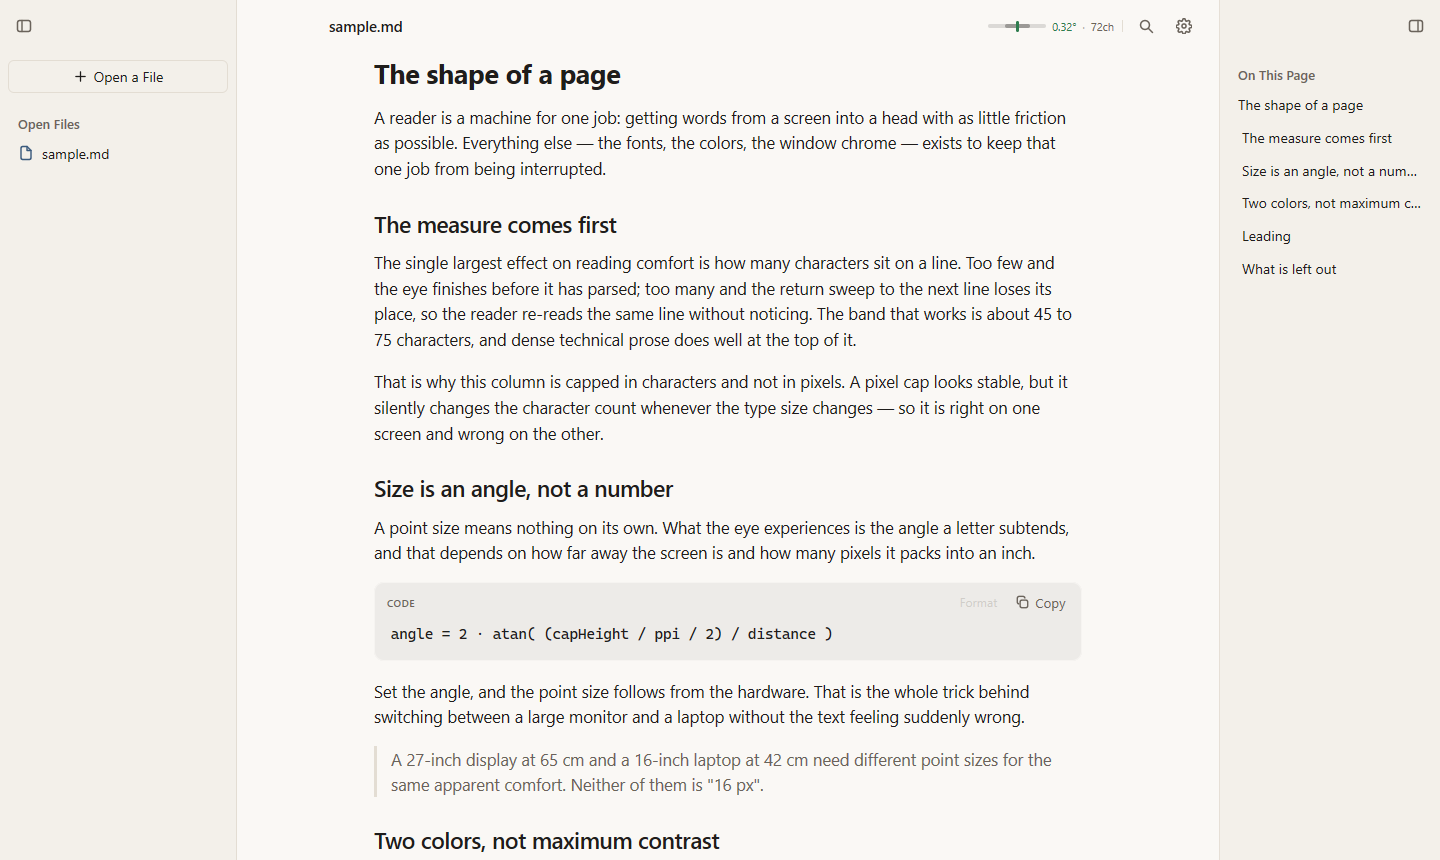
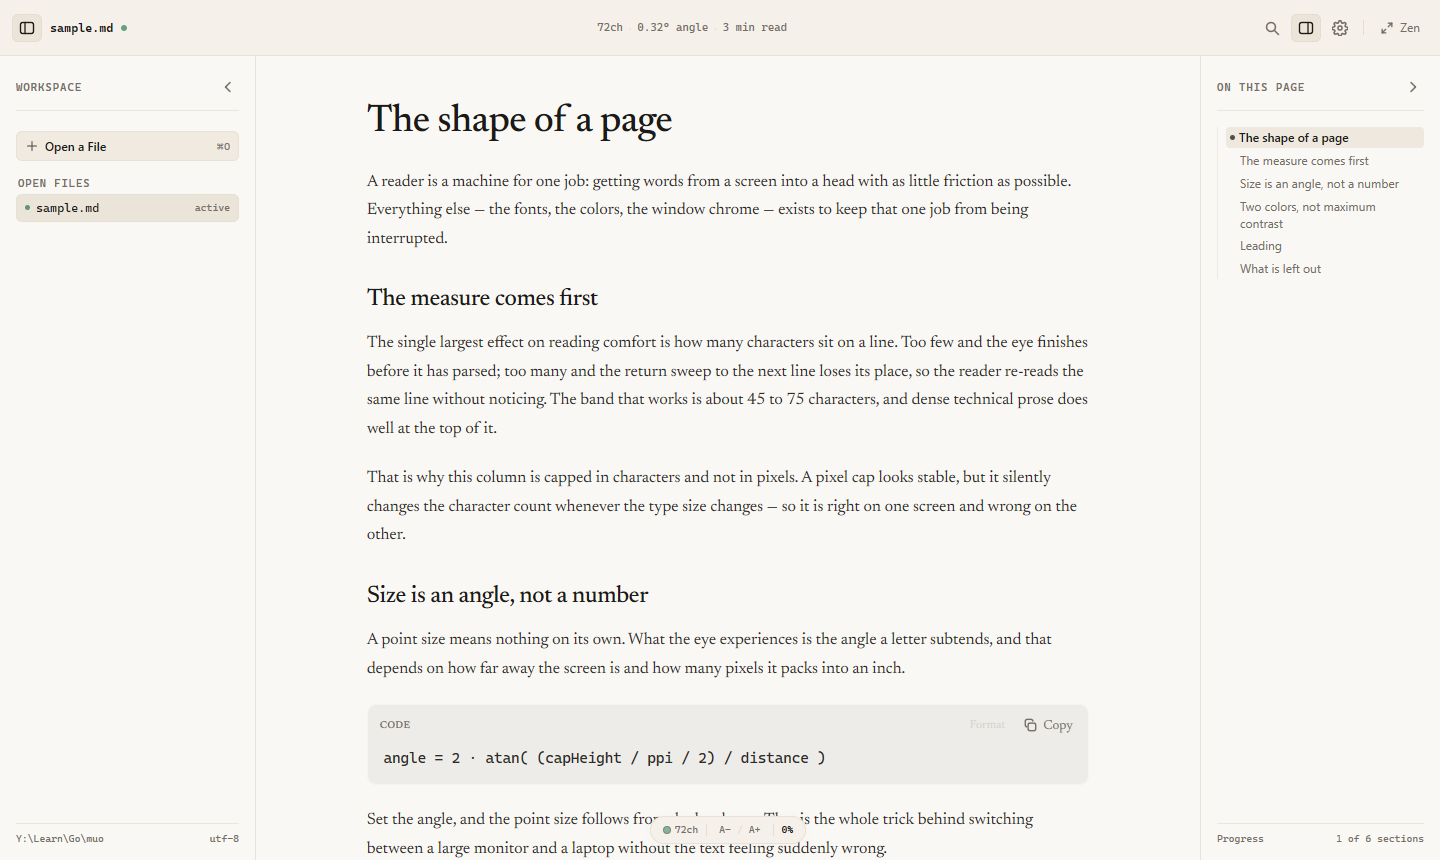
Release 0.2.0, with the screenshots the window now draws
The README and the page described three panes with dividers that drag and a
type gauge in the title bar, and showed a capture of the window that was.
Both now describe what the app is: a serif page, a header that reports the
measure, and two panels that fold.

The captures are regenerated at the sizes the page already declares, so its
markup keeps its dimensions. The page's test count was a claim written by hand
and had drifted; it is 114 now.

diff --git a/docs/index.html b/docs/index.html
@@ -916,12 +916,12 @@ input[type="range"]:active::-moz-range-thumb { transform: scale(0.94); }
     </div>
     <p class="hero-proof">
       <span><b>6,686</b> lines of Go</span>
-      <span><b>99</b> tests</span>
+      <span><b>114</b> tests</span>
       <span><b>1</b> dependency</span>
       <span>Free, MIT licensed</span>
     </p>
     <div class="hero-shot">
-      <img src="shots/reading-light.png" alt="Muo with a document open. Three panes: a library of files on the left, the reading column in the middle, and the page outline on the right." width="1440" height="860" fetchpriority="high">
+      <img src="shots/reading-light.png" alt="Muo with a document open: the files panel on the left, the reading column set in a serif in the middle, and the page outline on the right." width="1440" height="860" fetchpriority="high">
     </div>
   </div>
 </section>
@@ -1074,7 +1074,7 @@ input[type="range"]:active::-moz-range-thumb { transform: scale(0.94); }
 
     <div class="shots">
       <figure class="shot wide reveal">
-        <img src="shots/reading-light.png" alt="Muo in light appearance: library pane, reading column, outline pane, and the type gauge in the title bar." width="1440" height="860" loading="lazy">
+        <img src="shots/reading-light.png" alt="Muo in light appearance: the files panel, the reading column in a serif, the outline panel, and the reading metadata in the header." width="1440" height="860" loading="lazy">
         <figcaption>Light. The page is the only opaque surface.</figcaption>
       </figure>
       <figure class="shot reveal">

diff --git a/README.md b/README.md
@@ -3,7 +3,7 @@
 A markdown reader that sizes type from your screen and your viewing distance, then
 holds the line at 72 characters.
 
-![Muo with a document open, three panes: files, page, outline](docs/shots/reading-light.png)
+![Muo with a document open: the files panel on the left, the reading column in the middle, and the page outline on the right](docs/shots/reading-light.png)
 
 ## The idea
 
@@ -25,17 +25,31 @@ on one screen and wrong on the other.
 
 ## What it does
 
-- **Three panes.** Files, page, and the document's own headings. Every divider drags.
-  Every pane folds away and comes back where you left it.
+- **A page, not a form.** One centred column of prose in a serif cut bundled with
+  the app, with the files and the outline as panels either side. Both panels fold
+  and slide, and the column keeps its measure while they do.
 - **Find that marks the page.** Every match is highlighted where it sits, headings
   included. Enter walks them.
 - **PDF search.** Find reads the page text and turns to the page the match is on.
 - **Code you can tidy.** Go and JSON go through the standard library. Other languages
   get spacing and indentation that never reaches inside a string or a comment.
-- **It remembers.** Your place in each document, pane widths, which panes you folded,
-  and the files you had open.
+- **It remembers.** Your place in each document, which panels you folded, the files
+  you had open, and when you last read each one.
 - **One dependency.** Go, drawn on the GPU by [MyGo](https://github.com/egoist/mygo).
   No webview, no JavaScript runtime, no frontend build.
+
+## The window
+
+The header carries the document's name, what the type model solved for this screen,
+and the commands. The two panels answer the two questions a reader has while
+reading — which file, and where in this file — and either can be folded away with
+⌘B or the header's toggle. Zen folds both panels and the status pill so the page
+has the whole window; the header stays, so the way out is where you left it.
+
+The measure is the same promise in every state: 72 characters, or as many as the
+window can actually hold. The pill at the foot of the page reports the count, the
+size, and how far through the document you are, and its two buttons step the type
+size without leaving the page.
 
 ## Build
 
@@ -94,7 +108,8 @@ copy.
 muo/
 ├── pdf/       the PDF parser, interpreter and rasterizer, with no dependency on the app
 ├── code/      the code formatter and tab expansion
-└── *.go       the reader: frame, settings, theme, outline, find
+├── fonts/     the page's serif, bundled so the measure is the same on every platform
+└── *.go       the reader: frame, panels, header, pill, settings, theme, find
 ```
 
 `pdf` and `code` build standalone. The app imports them and nothing else.

diff --git a/CHANGELOG.md b/CHANGELOG.md
@@ -3,6 +3,39 @@
 Each `## <version>` section becomes the release notes for that version, and the
 update window shows it when an installed app offers the update.
 
+## 0.2.0
+
+The window is a page now.
+
+- **A serif page.** The reading column is set in Newsreader, bundled with the app
+  so the measure is the same on every platform. Headings are drawn in it too, at
+  the size and weight the design calls for.
+- **One header, two panels.** The document's name, the measure, the apparent size
+  and the reading time sit above the page; the files and the outline are panels
+  either side of it. Both fold with ⌘B or the header's toggle, and slide.
+- **Zen.** Folds both panels and the status pill so the page has the whole window.
+  The header stays, so the way out is where you left it.
+- **A status pill** at the foot of the page: the measure, A- and A+ for the type
+  size, and how far through the document you are.
+- **Reading time**, from the document's word count.
+- **Recent documents** in the files panel, with how long ago each was read.
+- **GitHub callouts.** `> [!NOTE]` and the other four alerts are drawn as marked
+  passages rather than showing their marker as text.
+- **A new palette.** Warm paper and two inks — a darker one for headings, a softer
+  one for prose — held inside the contrast band reading wants rather than at
+  maximum.
+
+Fixed:
+
+- A heading's position doubled as the page scrolled, so the outline's idea of where
+  you were drifted further from the page the further you read, and a saved place
+  could point past the end of the document.
+- The outline now marks the section you are actually in, measured against the
+  header rather than the raw scroll.
+- A table column as narrow as a short heading broke it mid-word.
+- The header clears the window's controls on Windows, where they are on the right
+  rather than the left.
+
 ## 0.1.0
 
 First release.

diff --git a/shots/README.md b/shots/README.md
@@ -6,13 +6,16 @@ can be compared against how it looked before.
 
 | File | What it shows |
 | --- | --- |
-| `doc-wide-light.png`, `doc-wide-dark.png` | All three panes, at 1440 wide |
-| `doc-light.png`, `doc-dark.png` | The page and the library, below the outline's threshold |
+| `doc-wide-light.png`, `doc-wide-dark.png` | Both panels, at 1440 wide |
+| `doc-light.png`, `doc-dark.png` | The page and the files panel, below the outline's threshold |
 | `empty-light.png`, `empty-dark.png` | The empty window |
 | `settings-light.png`, `settings-dark.png` | The reading settings pane |
 | `find-light.png` | Find open, with matches marked |
+| `zen-light.png` | Zen: both panels folded, the page alone under the header |
 | `blocks-light.png`, `blocks-dark.png` | One of every markdown block |
-| `narrow-light.png` | 720 wide, where both panes yield |
+| `callouts-light.png`, `callouts-dark.png` | One of each GitHub alert, and a quote that must stay a quote |
+| `narrow-light.png` | 720 wide, where both panels yield |
 
 `all-blocks.md` is the fixture `blocks-*.png` render: a document with a heading of
 each level, lists, a table, code in two languages, a quote, a footnote and an image.
+`callouts.md` is the fixture the callout shots render.

diff --git a/shots/callouts.md b/shots/callouts.md
@@ -1,0 +1,20 @@
+# Callouts
+
+> [!NOTE]
+> Useful information that users should know, even when skimming.
+
+> [!TIP]
+> Helpful advice for doing things better or more easily.
+
+> [!IMPORTANT]
+> Key information users need to know to achieve their goal.
+
+> [!WARNING]
+> Urgent info that needs immediate user attention.
+
+> [!CAUTION]
+> Advises about risks or negative outcomes of certain actions.
+
+An ordinary quote, which must stay a quote:
+
+> A quote that merely mentions a bracket, [like this].
